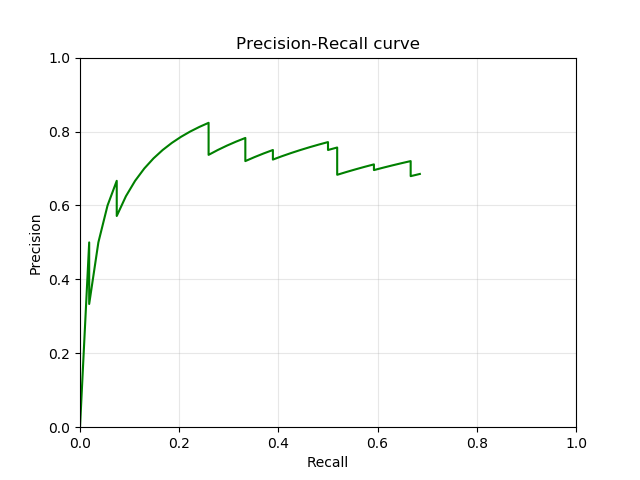
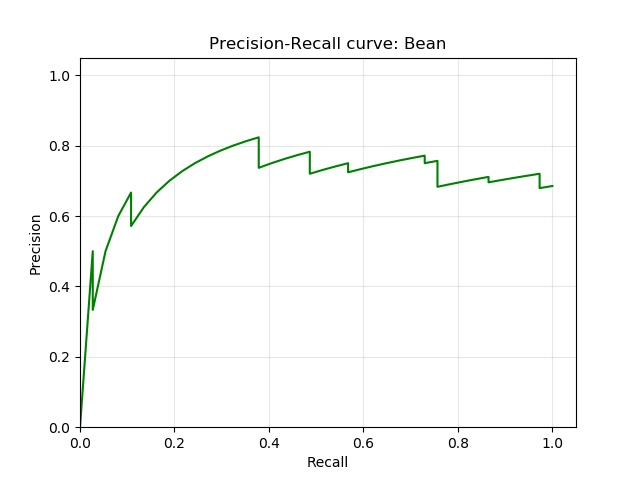
Add Result images.

diff --git a/models/config.py b/models/config.py
@@ -5,23 +5,23 @@ configuration file for training YOLO LITE model.
 IMAGE_SIZE = (512, 512)  # (h, w)
 # TODO: Change when dataset is changed.
 
-# N_CLASSES = 1
-# CLASS_NAME = ['Bean']
-# IMG_PATH = '/data_ssd3/LJH/pytorch_project/YOLO_LITE/data/bean_leaf_noweed/images/'
-# ANNOTATION_PATH = '/data_ssd3/LJH/pytorch_project/YOLO_LITE/data/bean_leaf_noweed/annotation/test_coco.json'
-# BOX_PATH = '/data_ssd3/LJH/pytorch_project/YOLO_LITE/data/bean_leaf_noweed/boxes/'
-# OUTPUT_PATH = '/data_ssd3/LJH/pytorch_project/YOLO_LITE/output/bean_leaf_noweed/'
+N_CLASSES = 1
+CLASS_NAME = ['Bean']
+IMG_PATH = '/data_ssd3/LJH/pytorch_project/YOLO_LITE/data/bean_leaf_noweed/images/'
+ANNOTATION_PATH = '/data_ssd3/LJH/pytorch_project/YOLO_LITE/data/bean_leaf_noweed/annotation/test_coco.json'
+BOX_PATH = '/data_ssd3/LJH/pytorch_project/YOLO_LITE/data/bean_leaf_noweed/boxes/'
+OUTPUT_PATH = '/data_ssd3/LJH/pytorch_project/YOLO_LITE/output/bean_leaf_noweed/'
 
-N_CLASSES = 2
-CLASS_NAME = ['Bean', 'Weed']
-IMG_PATH = '/data_ssd3/LJH/pytorch_project/YOLO_LITE/data/bean_leaf/images/'
-ANNOTATION_PATH = '/data_ssd3/LJH/pytorch_project/YOLO_LITE/data/bean_leaf/annotation/coco_annotation.json'
-BOX_PATH = '/data_ssd3/LJH/pytorch_project/YOLO_LITE/data/bean_leaf/boxes/'
-OUTPUT_PATH = '/data_ssd3/LJH/pytorch_project/YOLO_LITE/output/bean_leaf/'
+# N_CLASSES = 2
+# CLASS_NAME = ['Bean', 'Weed']
+# IMG_PATH = '/data_ssd3/LJH/pytorch_project/YOLO_LITE/data/bean_leaf/images/'
+# ANNOTATION_PATH = '/data_ssd3/LJH/pytorch_project/YOLO_LITE/data/bean_leaf/annotation/coco_annotation.json'
+# BOX_PATH = '/data_ssd3/LJH/pytorch_project/YOLO_LITE/data/bean_leaf/boxes/'
+# OUTPUT_PATH = '/data_ssd3/LJH/pytorch_project/YOLO_LITE/output/bean_leaf/'
 
 # NOTICE : ########## Model Related ###########
 GRID = 8
-N_BOXES = 2
+N_BOXES = 1
 
 # NOTICE : ########## Train Related ###########
 DIFFERENT_IMAGE_SIZE = False

diff --git a/run/test.py b/run/test.py
@@ -9,7 +9,7 @@ import time
 
 device = torch.device('cpu')
 model = yoloLite(classes=cfg.N_CLASSES, bbox=cfg.N_BOXES)
-model.load_state_dict(torch.load('/data_ssd3/LJH/pytorch_project/YOLO_LITE/weights/weights_weed_2boxes.pth', map_location=device))
+model.load_state_dict(torch.load('/data_ssd3/LJH/pytorch_project/YOLO_LITE/weights/weights_noweed_1boxes.pth', map_location=device))
 model.eval()
 
 # load dataset.
@@ -48,7 +48,7 @@ for iteration, (img, target) in enumerate(test_loader):
         cal_mAP.keep(cbboxes, cconfidences, target[id])
 
 # Calculate mAP.
-result = cal_mAP.calculate(plot=False, mean=True)
+result = cal_mAP.calculate(plot=True, mean=True)
 print(f'mAP : {result}')
 
 # Calculate FPS.

diff --git a/ReadMe.md b/ReadMe.md
@@ -78,10 +78,29 @@ D |0.7195|-|-|4.24|4.69|
   
 ### Result 
 
-#### leanring graph
-TYPE|graph| 
-:----:|:----:
-A |![A_learning](https://raw.githubusercontent.com/hololee/YOLO_LITE/master/output/bean_leaf/learning_graph(weed%2C%202boxes).png)
-B |![A_learning](https://raw.githubusercontent.com/hololee/YOLO_LITE/master/output/bean_leaf/learning_graph(weed%2C%201boxes).png)
-C |![A_learning](https://raw.githubusercontent.com/hololee/YOLO_LITE/master/output/bean_leaf_noweed/learning_graph(noweed%2C%202boxes).png)
-D |![A_learning](https://raw.githubusercontent.com/hololee/YOLO_LITE/master/output/bean_leaf_noweed/learning_graph(noweed%2C%201boxes).png)
+- #### leanring graph
+    TYPE|graph| 
+    :----:|:----:
+    A |![A_learning](https://raw.githubusercontent.com/hololee/YOLO_LITE/master/output/bean_leaf/learning_graph(weed%2C%202boxes).png)
+    B |![B_learning](https://raw.githubusercontent.com/hololee/YOLO_LITE/master/output/bean_leaf/learning_graph(weed%2C%201boxes).png)
+    C |![C_learning](https://raw.githubusercontent.com/hololee/YOLO_LITE/master/output/bean_leaf_noweed/learning_graph(noweed%2C%202boxes).png)
+    D |![D_learning](https://raw.githubusercontent.com/hololee/YOLO_LITE/master/output/bean_leaf_noweed/learning_graph(noweed%2C%201boxes).png)  
+  
+  
+- #### Precision-Recall curve
+    TYPE|Bean|Weed 
+    :----:|:----:|:----:
+    A |![A_PR_curve](https://raw.githubusercontent.com/hololee/YOLO_LITE/master/output/bean_leaf/precision_recall_curve_Bean(weed%2C%202boxes).png)|![A_learning](https://raw.githubusercontent.com/hololee/YOLO_LITE/master/output/bean_leaf/precision_recall_curve_Weed(weed%2C%202boxes).png)
+    B |![B_PR_curve](https://raw.githubusercontent.com/hololee/YOLO_LITE/master/output/bean_leaf/precision_recall_curve_Bean(weed%2C%201boxes).png)|![A_learning](https://raw.githubusercontent.com/hololee/YOLO_LITE/master/output/bean_leaf/precision_recall_curve_Weed(weed%2C%201boxes).png)
+    C |![C_PR_curve](https://raw.githubusercontent.com/hololee/YOLO_LITE/master/output/bean_leaf_noweed/precision_recall_curve(noweed%2C%202boxes).png)|-
+    D |![D_PR_curve](https://raw.githubusercontent.com/hololee/YOLO_LITE/master/output/bean_leaf_noweed/precision_recall_curve(noweed%2C%201boxes).png)|-
+  
+  
+- #### Output Result
+    Type|sample1|sample2|sample3|sample4|sample5
+    |:----:|:----:|:----:|:----:|:----:|:----:|
+    ![output]()|||||
+      
+
+
+
